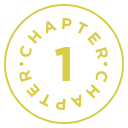
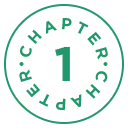
20210113

diff --git a/src/css/common.css b/src/css/common.css
@@ -110,8 +110,8 @@ body.scroll-lock {position:fixed; height:100%; overflow:hidden;}
 .iframe-box > iframe {width:100%; height:100%; outline:0;}
 .iframe-box > .btn-sound {position: absolute; top: 3.7778vw; right: 4.7778vw; width: 8.3333vw; height: 8.3333vw; background: url(../img/sound_off.png) no-repeat; background-size: 100% 100%;}
 .iframe-box > .btn-sound.on {background: url(../img/sound_on.png) no-repeat;background-size: 100% 100%;}
-
-.sub-txt{padding: 12.5000vw 0; text-align: center; font-size: 4.0278vw; line-height: 1.5; font-weight: normal;}
+/* 20210113 */
+.sub-txt{padding: 12.5000vw 0; text-align: center; font-size: 4.1667vw; line-height: 1.5; font-weight: normal;}
 .tag-txt{font-size: 4.1667vw; line-height: 2.5; font-weight: 500;}
 .tag-txt span{font-weight: bold;}
 .two-img{display: flex; justify-content: space-between;}
@@ -274,7 +274,8 @@ body.scroll-lock {position:fixed; height:100%; overflow:hidden;}
 .title-img > img{width: 17.7778vw; height: 17.7778vw;}
 .section .title-box .title-txt{letter-spacing: -0.4167vw;font-size: 6.9444vw; font-weight: bold; line-height: 1.3;}
 .section .iframe-box {height:75.0000vw;}
-.section .iframe-box.small-iframe {width: 64.3056vw; height:47.2222vw; margin: auto; box-shadow: 4.1667vw 4.1667vw 0 0 #ffffee;}
+/* 20210113 */
+.section .iframe-box.small-iframe {width: 76.3611vw; height:55.5556vw; margin-left: 20%; box-shadow: 4.1667vw 4.1667vw 0 0 #e6f9f3;}
 
 .section .img-box .photo{margin-bottom: 13.1944vw;}
 .section .img-box .photo.img-right > img ,.section .img-box .photo.img-left > img{width: 70%;}
@@ -286,22 +287,22 @@ body.scroll-lock {position:fixed; height:100%; overflow:hidden;}
 .section .title-line .title-box .title-txt p::before{content: ''; opacity: .1; height: 4.4222vw; position: absolute; bottom: 0.4167vw; left: 50%; transform: translateX(-50%);}
 
 .section.chapter01 .content-main .iframe-box{margin-top: -15.7222vw;}
-.section.chapter01 .content-main .title-box{background-color: #ffffee;}
+.section.chapter01 .content-main .title-box{background-color: #e6f9f3;}
 .section.chapter01 .content-main .title-box .title-txt{color: #000;}
 .section.chapter01 .video-place{margin-bottom: 27.7778vw;}
-.section.chapter01 .title-line .title-box .title-txt{color: #d9cc47;}
-.section.chapter01 .title-line .title-box .title-txt p::before{background-color: #d9cc47;}
+.section.chapter01 .title-line .title-box .title-txt{color: #24956a;}
+.section.chapter01 .title-line .title-box .title-txt p::before{background-color: #24956a;}
 .section.chapter01 .title-line .title-box .title-txt p:nth-child(1)::before{width: 38.8889vw;}
 .section.chapter01 .title-line .title-box .title-txt p:nth-child(2)::before{width: 44.4444vw;}
-.section.chapter01 .road-map{background-color: #ffffee; padding-bottom: 16.6667vw; margin-bottom: 11.1111vw;}
-.section.chapter01 .tag-txt{color: #d9cc47;}
+.section.chapter01 .road-map{background-color: #e6f9f3; padding-bottom: 16.6667vw; margin-bottom: 11.1111vw;}
+.section.chapter01 .tag-txt{color: #24956a;}
 
 .section .slider-gallery .photo-line span{ padding: 0.6944vw 2.7778vw; display: inline-block; font-size: 3.6111vw; color: #fff;}
-.section.chapter01 .slider-gallery .photo-line{border-bottom: 0.1389vw solid #d9cc47;}
-.section.chapter01 .slider-gallery .photo-line span{background-color: #d9cc47;}
+.section.chapter01 .slider-gallery .photo-line{border-bottom: 0.1389vw solid #24956a;}
+.section.chapter01 .slider-gallery .photo-line span{background-color: #24956a;}
 .section.chapter01 .slider-gallery .tag-txt{padding-bottom: 3.4722vw;}
 .section.chapter01 .road-map .title-box{padding-bottom: 0;}
-.section.chapter01 .road-map .title-txt{color: #d9cc47;}
+.section.chapter01 .road-map .title-txt{color: #24956a;}
 .section.chapter01 .road-map .type3 .slide-content{height: 76.6111vw; position: relative;}
 .section.chapter01 .road-map .type3 .slide-content button{background: url(../img/spritesheet.png) no-repeat -0.6944vw -0.6944vw;width: 4.1667vw;height: 4.1667vw;background-size: 24.7222vw 15.9722vw;position: absolute;}
 .section.chapter01 .road-map .type3 .slide-content button:hover{background: url(../img/spritesheet.png) no-repeat -6.2500vw -0.6944vw;width: 6.2500vw;height: 6.2500vw;background-size: 24.7222vw 15.9722vw; transform: translate(-1.1111vw,-1.1111vw);}
@@ -325,9 +326,9 @@ body.scroll-lock {position:fixed; height:100%; overflow:hidden;}
 .section.chapter01 .road-map .type3 .slick-arrow.slick-next,.section.chapter01 .road-map .type3 .slick-arrow.slick-prev {top:45%;}
 .section.chapter01 .road-map .type4 .slick-arrow.slick-next,.section.chapter01 .road-map .type4 .slick-arrow.slick-prev {top:55%;}
 
-.section.chapter01.ch-2 .content-main .title-box{background-color: #fff2ea;}
+.section.chapter01.ch-2 .content-main .title-box{background-color: #fcebe1;}
 .section.chapter01.ch-2 .tag-txt{color: #b37f62;}
-.section.chapter01.ch-2 .FAQ{background-color: #fff5ee;}
+.section.chapter01.ch-2 .FAQ{background-color: #fff4ee;}
 .section.chapter01.ch-2 .FAQ .title-box{padding-bottom: 4.1667vw;}
 .FAQ .accodion{padding: 0 3.6111vw 13.8889vw 3.6111vw; margin-bottom: 13.8889vw;}
 .FAQ .accodion .card-header{height: 11.1111vw; display: flex; align-items: center;}
@@ -343,14 +344,14 @@ body.scroll-lock {position:fixed; height:100%; overflow:hidden;}
 .section.chapter01.ch-2 .title-line .title-box .title-txt p:nth-child(1)::before{width: 38.8889vw;}
 .section.chapter01.ch-2 .title-line .title-box .title-txt p:nth-child(2)::before{width: 44.4444vw;}
 
-.section.chapter01.ch-3 .content-main .title-box{background-color: #ebfcff;}
+.section.chapter01.ch-3 .content-main .title-box{background-color: #def0fa;}
 .section.chapter01.ch-3 .content-main .main-img{margin-top: -9.7222vw;}
 .section.chapter01.ch-3 .content-main .sub-txt.ver2{padding-top: 0;}
 .section.chapter01.ch-3 .tag-txt{color: #2794c7;}
 .section.chapter01.ch-3 .slider-gallery .photo-line{border-bottom: 0.1389vw solid #2794c7;}
 .section.chapter01.ch-3 .slider-gallery .photo-line span{background-color: #2794c7;}
-.slider.type3.color1 .slick-dots > li.slick-active > button{background-color: #d9cc47;}
-.slider.type3.color1 .slick-dots > li.slick-active::before{background-color: #d9cc47;}
+.slider.type3.color1 .slick-dots > li.slick-active > button{background-color: #24956a;}
+.slider.type3.color1 .slick-dots > li.slick-active::before{background-color: #24956a;}
 .section.chapter01.ch-3 .title-line .title-box .title-txt{color: #2794c7;}
 .section.chapter01.ch-3 .title-line .title-box .title-txt p::before{background-color: #2794c7;}
 .section.chapter01.ch-3 .title-line .title-box .title-txt p:nth-child(2)::before{width: 38.8889vw;}
@@ -385,13 +386,12 @@ footer .footer-logo.halla{width: 25.0000vw; height: 9.4444vw;}
 .section.event .giftcard-box .img-box:last-child{margin-bottom: 5.5556vw;}
 
 
-
-.section.event .form-box {padding:0 5.5556vw;}
+/* 20210113 */
 .section.event .form-box .answer-box {position:relative; height:15.9722vw; margin-top:11.1111vw; background-color:#e8f7f7; text-align:center; line-height:15.2778vw;}
 .section.event .form-box .answer-box::after {content:''; position:absolute; top:-10.6944vw; right:0; width:51.8056vw; height:10.6944vw; background:url('../img/answer-bg.jpg') no-repeat; background-size:100% 100%;}
 .section.event .form-box .answer-box > span {color:#00b4b1; font-size:7.2222vw; font-weight:400; vertical-align:middle;}
 .section.event .form-box .answer-box > input {width:10.6944vw; height:10.6944vw; margin:0 2.0833vw; border:2px solid #666; background-color:#fff; font-size:6.6667vw; vertical-align:middle; text-align:center; -webkit-appearance:none; -webkit-border-radius:0; border-radius:0; border:0;}
-.section.event .form-box .phone-input {width: 88.8889vw; margin-bottom:4.44445vw; height: 15.2778vw; padding-left: 0; background-color: Transparent; border: 1px solid #959595; font-family:'NotoSansKR'; font-weight: 400; font-size: 4.1667vw; color: #000; text-align: center; position: relative; left: 50%; transform: translateX(-50%);} 
+.section.event .form-box .phone-input {width: 100%; margin-bottom:4.44445vw; height: 15.2778vw; padding-left: 0;border: 1px solid #959595; font-family:'NotoSansKR'; font-weight: 400; font-size: 4.1667vw; color: #000; text-align: center; position: relative; left: 50%; transform: translateX(-50%);} 
 .section.event .form-box input::placeholder {color:#000;}
 .section.event .form-box input::-webkit-input-placeholder {color:#000;}
 .section.event .form-box input:-ms-input-placeholder {color:#000;}
@@ -505,7 +505,8 @@ footer .footer-logo img {width:100%;}
     .content-box {padding:26px 40px 0; letter-spacing:-2px;}
     .content-box p {font-size:35px; margin-bottom:13px;}
     .content-box p:last-child {margin-bottom:0;}
-    .sub-txt{padding: 90px 0;font-size: 29px;}
+    /* 20210113 */
+    .sub-txt{padding: 90px 0;font-size: 30px;}
     .tag-txt{font-size: 30px;}
     .two-img img{width: 330px; height: 240px;}
     .three-img > div{margin-bottom: 40px;}
@@ -612,7 +613,8 @@ footer .footer-logo img {width:100%;}
     .title-img > img{width: 128px; height: 128px;}
     .section .title-box .title-txt{letter-spacing: -3px;font-size: 50px;}
     .section .iframe-box {height:540px;}
-    .section .iframe-box.small-iframe {width: 462px; height:340px;box-shadow: 30px 30px 0 0 #ffffee;}
+    /* 20210113 */
+    .section .iframe-box.small-iframe {width: 539px; height:400px;box-shadow: 30px 30px 0 0 #ffffee;margin-left: 21%;}
 
     .section .img-box .photo{margin-bottom: 95px;}
     .section .title-line .title-box .title-txt p::before{height: 16px;bottom: 3px;}
@@ -680,7 +682,8 @@ footer .footer-logo img {width:100%;}
     .section.event .form-box .input-check {margin-top:20px; margin-bottom:10px; font-size:16px; letter-spacing:0;}
     .section.event .form-box .txt-warning {display:block; padding:0 0 20px; font-size:15px;}
 
-    .section.event .form-box .phone-input {width: 100%; height: 40px; font-weight: 400; padding-left: 0; margin-bottom: 15px; border: 1px solid #959595; background-color: Transparent; font-size: 16px; color: #000; text-align: center; position: relative; left: 50%; transform: translateX(-50%); font-family:'NotoSansKR'; font-weight:400}
+    /* 20210113 */
+    .section.event .form-box .phone-input {width: 100%; height: 40px; font-weight: 400; padding-left: 0; margin-bottom: 15px; border: 1px solid #959595; background-color: #f9f9f9; font-size: 16px; color: #000; text-align: center; position: relative; left: 50%; transform: translateX(-50%); font-family:'NotoSansKR'; font-weight:400}
 
     .section.event .agree-box li {margin-bottom:10px; padding:0;}
     .section.event .agree-box li:first-child label {font-size:15px; line-height:18px;}

diff --git a/index.html b/index.html
@@ -214,7 +214,8 @@
                                     <button><span class="blind">양평시외버스터미널</span></button>
                                     <button><span class="blind">하나로마트</span></button>
                                     <button><span class="blind">롯데마트</span></button>
-                                    <button><span class="blind">양평동초</span></button>
+                                    <!-- 20210113 -->
+                                    <!-- <button><span class="blind">양평동초</span></button> -->
                                 </div>
                             </div>
                         </div>
@@ -279,10 +280,11 @@
                             <p class="tag-txt">#롯데마트</p>
                             <div class="img-box"><img src="src/img/slide-chapter1-map01-14.jpg" alt=""/></div>
                         </div>
-                        <div class="slide-content">
+                        <!-- 20210113 -->
+                        <!-- <div class="slide-content">
                             <p class="tag-txt">#양평동초</p>
                             <div class="img-box"><img src="src/img/slide-chapter1-map01-03.jpg" alt=""/></div>
-                        </div>
+                        </div> -->
                         <div class="slide-content map-big-img">
                             <p class="tag-txt">#KTX & 고속도로 #서울을 더 빠르게</p>
                             <div class="img-box"><img src="src/img/slide-chapter1-map02-01.jpg" alt=""/></div>
@@ -560,8 +562,8 @@
                     <h3><span>신세계 상품권</span>을 드립니다</h3>
                     <span>(2021.01.15 ~ 종료 시 까지)</span>
                 </div>
-
-                <div class="giftcard-box">
+                <!-- 20210113 -->
+                <div class="giftcard-box inner">
                     <div class="img-box">
                         <img src="src/img/event01.png" alt="" />
                     </div>
@@ -570,7 +572,7 @@
                     </div>
                 </div>
 
-                <div class="form-box">
+                <div class="form-box inner">
                     <form>
                         <input type="tel" id="phone" class="phone-input" placeholder="휴대폰 전화번호 입력 (-제외)" maxLength="11"/>
                         <p class="txt-warning">※ 본인의 연락처로 작성해주세요</p>
@@ -680,15 +682,14 @@
             <div>
                 <strong>이벤트 참여 유의사항</strong>
                 <ul>
-                    <li>본 경품은 분양 안내 받기를 신청하신 고객 가운데 계약 완료를 인증해 주시는 분에 한해 제공해 드리고 있습니다.</li>
-                    <li>모델하우스 방문 시, 상담사에게 직방 분양 안내 받기 신청 고객임을 먼저 말씀해 주시기 바랍니다.</li>
-                    <li>비정상적인 방법으로 참여시 경품 지급 대상에서 제외됩니다.</li>
-                    <li>경품은 1인당 한 번만 제공됩니다. 중복 증정되지 않습니다.</li>
-                    <li>경품의 제세공과금(22%)는 직방에서 부담합니다.</li>
-                    <li>신분증과 계약서 촬영본은 계약 여부 확인과 제세공과금 신고 및 납부 목적 외에는 활용되지 않으며, 경품 지급과 신고 및 납부 완료 후에는 일괄 폐기 처리됩니다.</li>
-                    <li>매월 초 계약 여부를 확인하고 2주일 내 고객님의 휴대폰 번호로 상품권 교환권이 제공됩니다.</li>
-                    <li>경품 이미지는 실물과 다를 수 있으며, 이벤트 사정에 따라 고객 동의 없이 변경될 수 있습니다.</li>
-                    <li>본 프로모션은 당사 사정으로 조기 종료될 수 있습니다.</li>
+                    <!-- 20210113 -->
+                    <li>본 경품은 분양 안내 받기를 신청하신 고객 가운데 추첨이벤트는 추첨을 통해, 청약&계약이벤트는 청약과 계약 완료를 인증해 주시는 분에 한해 제공해 드리고 있습니다.</li>
+                    <li>경품은 1인당 한 번만 제공되며, 중복으로 증정되지 않습니다.</li>
+                    <li>비정상적인 방법으로 참여 시 경품 지급 대상에서 제외됩니다.</li>
+                    <li>경품 이미지는 실물과 차이가 있을 수 있으며, 주관사의 사정에 따라 대체될 수 있습니다.</li>
+                    <li>직방에서는 고객의 편의를 위해 제세공과금 신고 및 납부를 대행해 드리고 있으며, 세무당국에 신고를 위해 불가피하게 신분증 촬영본의 제출이 필요합니다.</li>
+                    <li>신분증 촬영본은 이벤트 당첨 여부 확인과 세무당국 신고 목적 외에는 활용되지 않으며, 목적 달성 즉시 일괄 폐기 처리됩니다.</li>
+                    <li>본 이벤트는 당사 사정으로 조기 종료될 수 있습니다.</li>
                     <li>반드시 계약서와 분양 안내받기 신청을 한 휴대폰 번호가 일치해야만 참여할 수 있습니다.</li>
                     <li>이벤트 문의는 <a href="tel:1833-5023">1833-5023</a>으로 전화 주시기 바랍니다. (전화 가능시간: 평일 10:00~18:00)</li>
                 </ul>
@@ -733,8 +734,9 @@
                 <p>보다 자세한 내용은 회사의 개인정보처리방침을 <br class="m-only"/>참조하여 주시기 바랍니다.</p>
                 
                 <dl>
+                    <!-- 20210113 -->
                     <dt>개인정보 제공받는 자</dt>
-                    <dd>(주)알비디케이메종, (주)엠비앤홀딩스</dd>
+                    <dd>(주)빌더스씨앤디, (주)한라, (주)미래인</dd>
                     <dt>제공 정보</dt>
                     <dd>휴대폰 번호</dd>
                     <dt>목적</dt>
